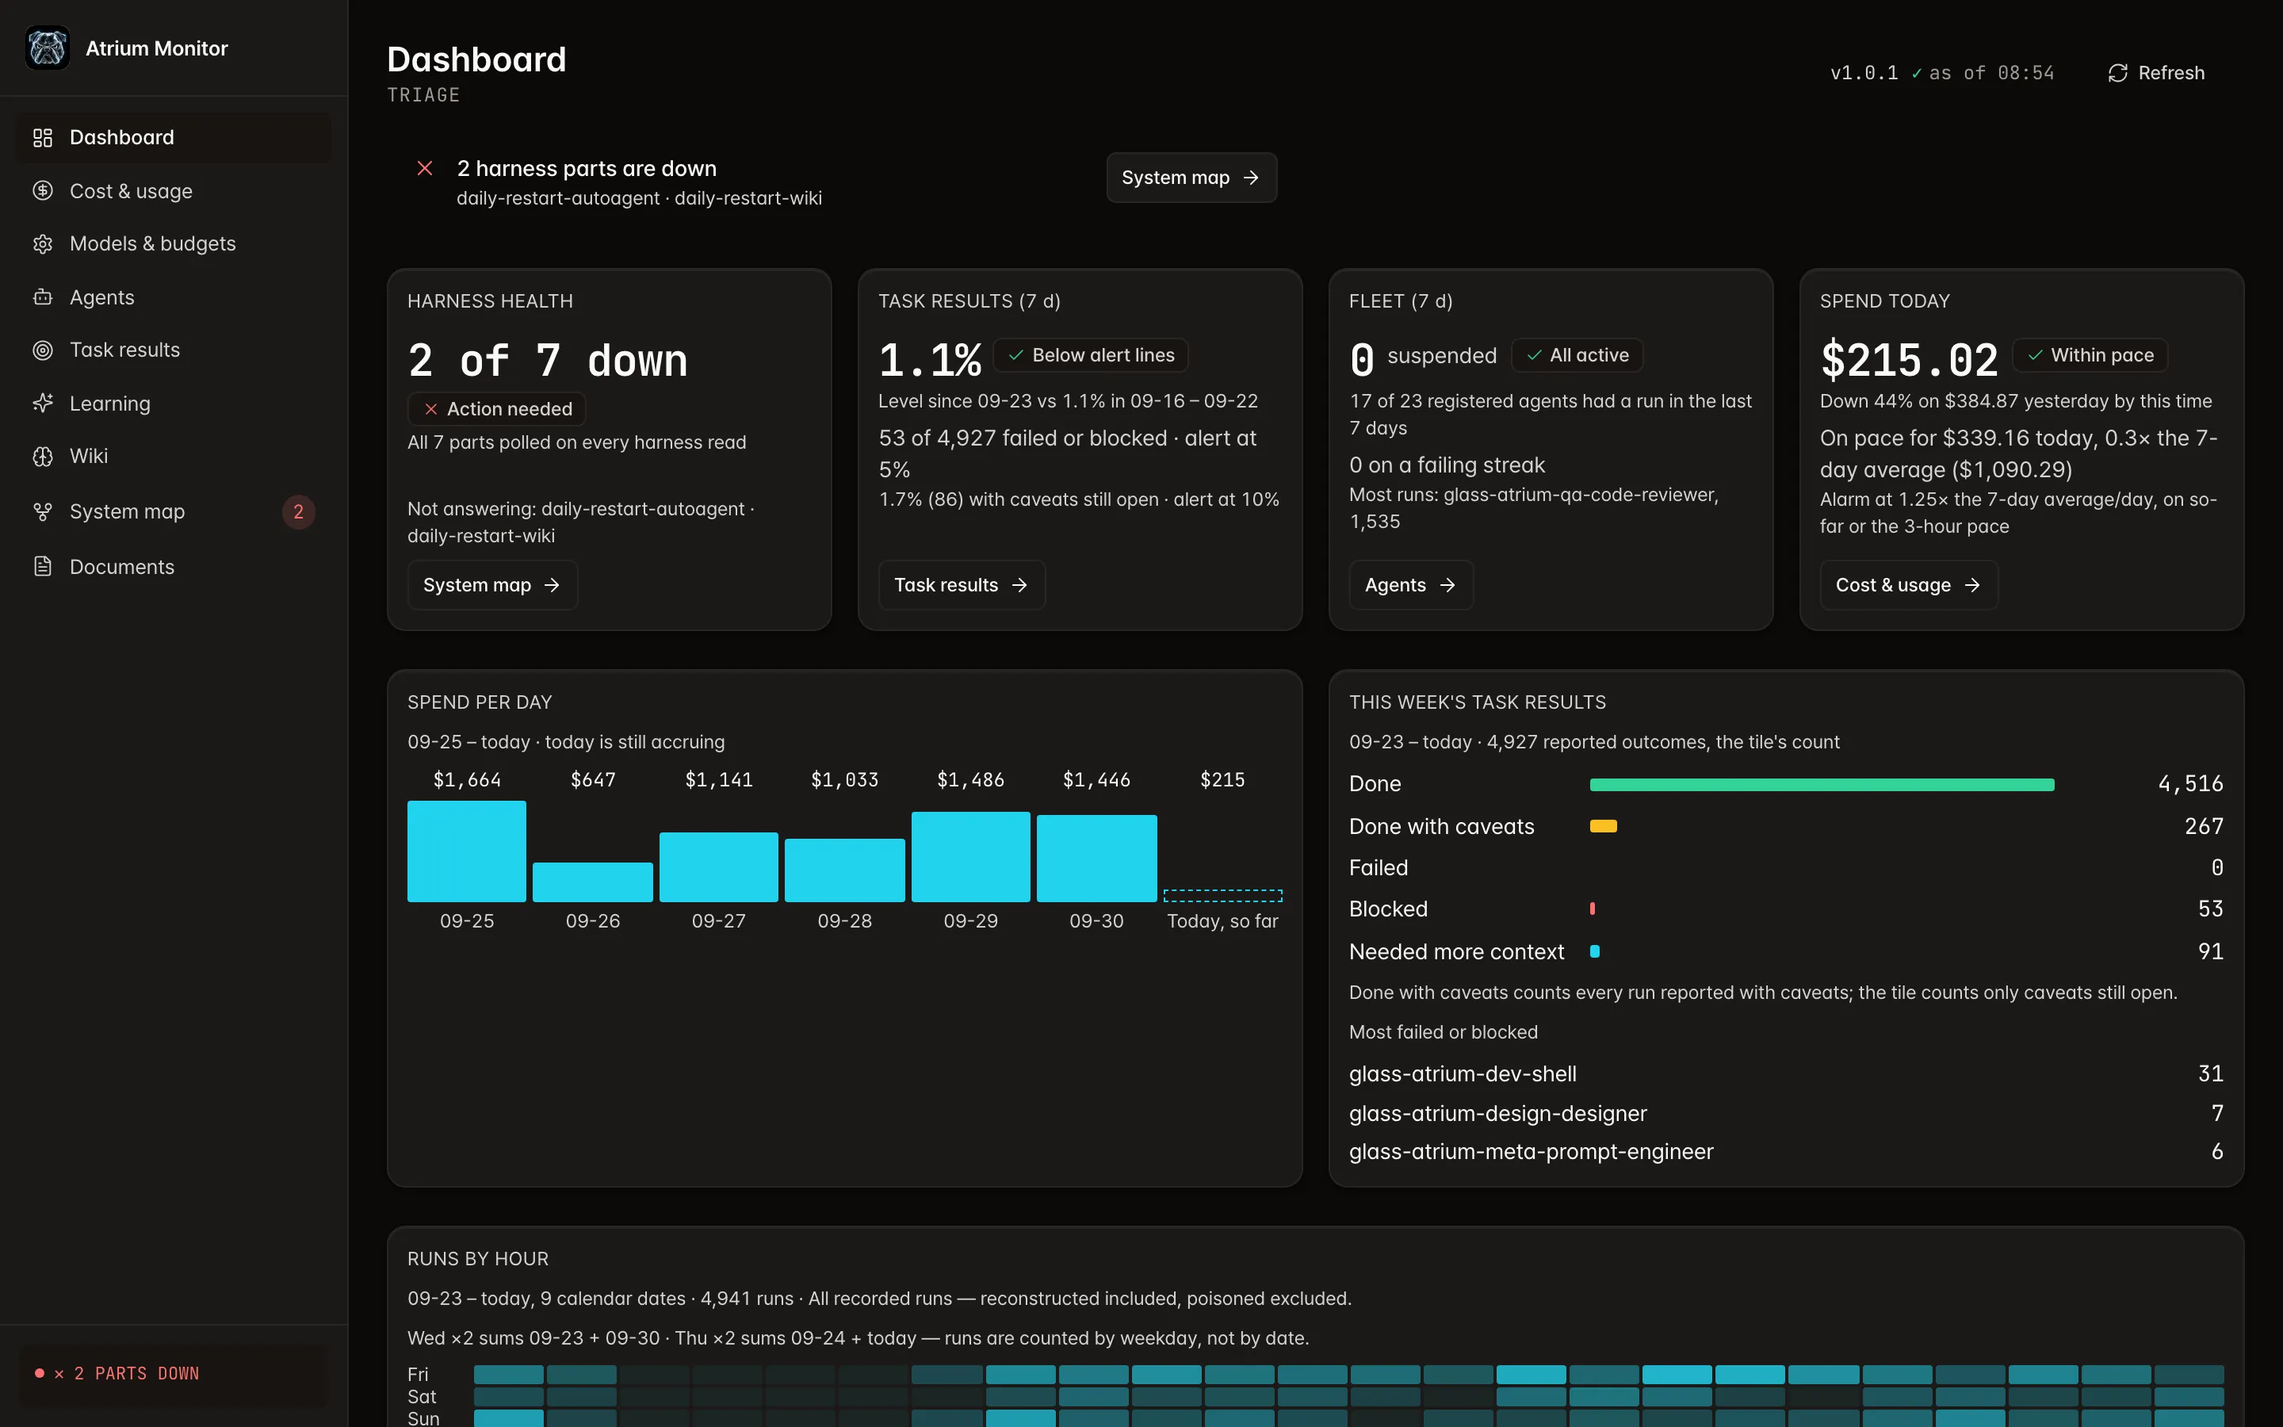
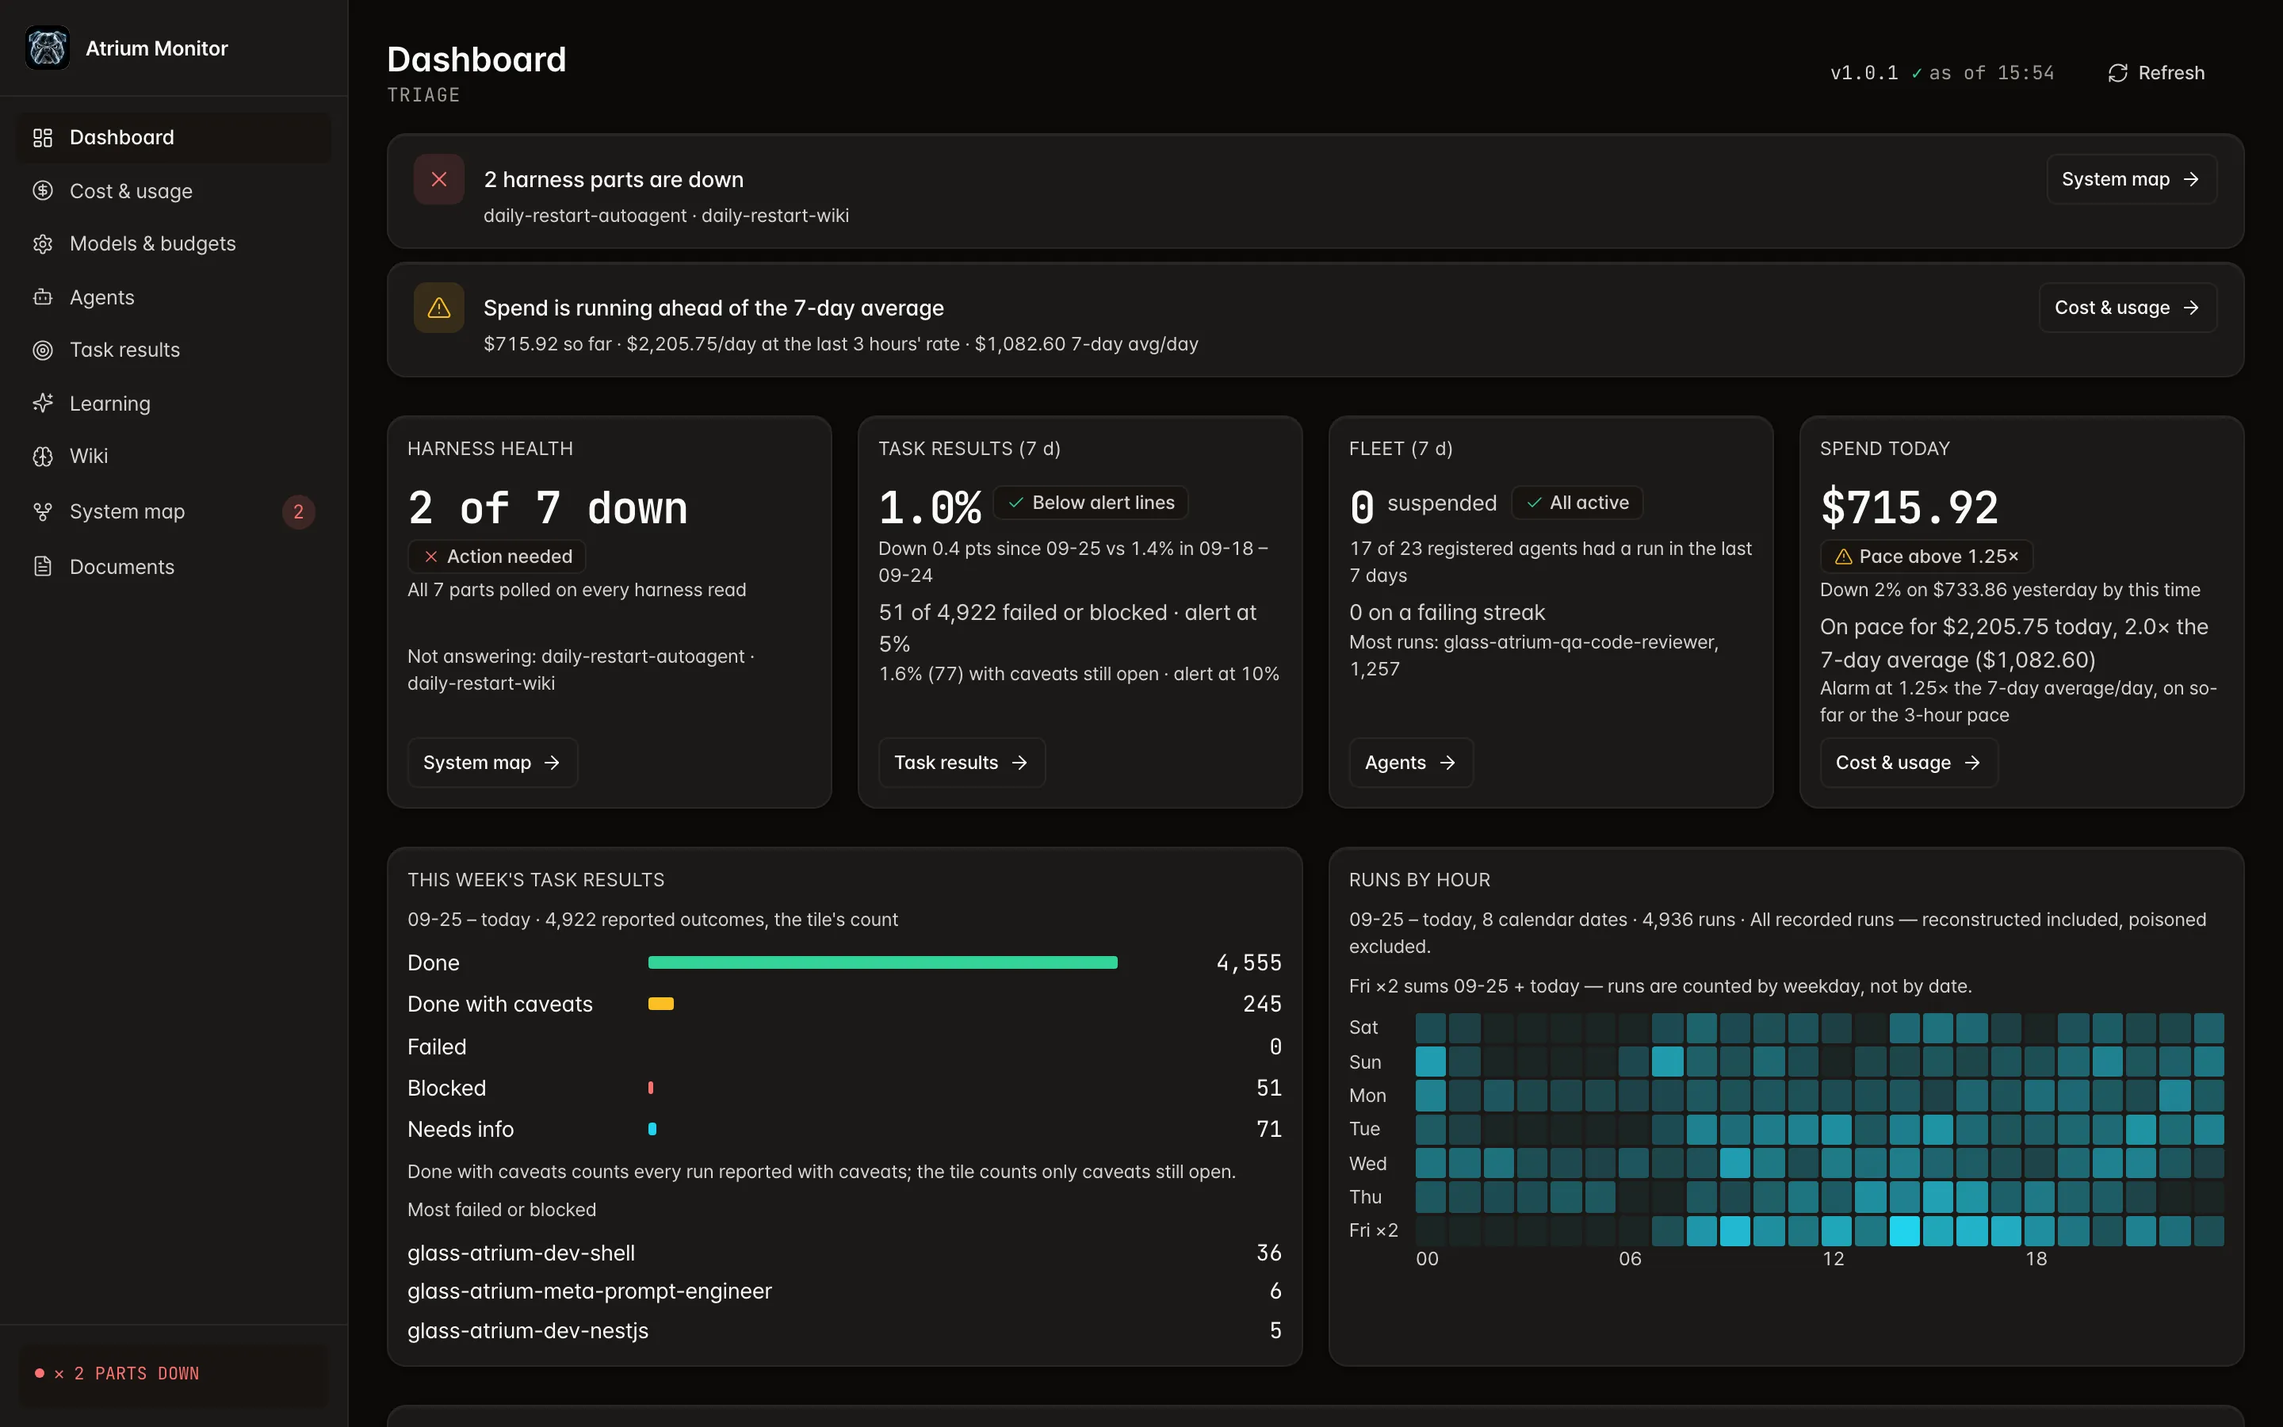
- [x] Refresh the README monitor screenshots and captions
- Rounds 8 and 9 changed the Dashboard alert cards, the Runs-by-hour panel and the System map layout, so the round-6 captures no longer matched the live UI.
- The en/ja/zh captions still described pre-round-6 content, and every alt/lead said "Cost & tokens" while the nav label is "Cost & usage".
- Captured as-is with two daily-restart daemons down; the Dashboard caption names stopped parts rather than claiming a healthy harness.

Coding-Agent: Claude Code
Model: claude-opus-5-5

diff --git a/README.ko.md b/README.ko.md
@@ -188,19 +188,19 @@ curl -fsSL https://github.com/bettep-dev/glass-atrium/raw/main/install.sh | bash
 ## 모니터 화면
 
 <p align="center"><img src="https://github.com/bettep-dev/glass-atrium/raw/main/docs/assets/screen-dashboard.webp" alt="대시보드" width="100%"></p>
-<p align="center"><em>대시보드 — 멈춘 하네스 부품을 맨 위에 알리고, 하네스 상태·7일 작업 결과·에이전트 현황·오늘 지출 타일과 일별 지출, 이번 주 작업 결과, 시간대별 실행 분포를 이어서 보여 줍니다.</em></p>
+<p align="center"><em>대시보드 — 멈춘 하네스 부품과 평소보다 빠른 지출을 맨 위에 알리고, 하네스 상태·7일 작업 결과·에이전트 현황·오늘 지출 타일과 이번 주 작업 결과, 시간대별 실행 분포를 이어서 보여 줍니다.</em></p>
 
-<p align="center"><img src="https://github.com/bettep-dev/glass-atrium/raw/main/docs/assets/screen-cost.webp" alt="비용·토큰" width="100%"></p>
-<p align="center"><em>비용·토큰 — 오늘 지출이 7일 평균 대비 정상 범위인지 먼저 알리고, 30일 비용·완료 작업당 비용·캐시 비중 KPI와 일별 비용 추이, 토큰 유형·모델별 비용, 비용이 큰 세션을 보여 줍니다.</em></p>
+<p align="center"><img src="https://github.com/bettep-dev/glass-atrium/raw/main/docs/assets/screen-cost.webp" alt="비용·사용량" width="100%"></p>
+<p align="center"><em>비용·사용량 — 오늘 지출이 7일 평균 대비 정상 범위인지 먼저 알리고, 오늘 대비 평소·30일 비용·완료 작업당 비용·캐시 비중 KPI와 일별 비용 추이, 토큰 유형·모델별 비용, 비용이 큰 세션을 보여 줍니다.</em></p>
 
 <p align="center"><img src="https://github.com/bettep-dev/glass-atrium/raw/main/docs/assets/screen-agents.webp" alt="에이전트" width="100%"></p>
-<p align="center"><em>에이전트 — 라우팅하면 안 되는 에이전트와 실패·도구 사용 한도 초과·컨텍스트 부족 건수를 먼저 보여 주고, 성공률이 낮은 에이전트·작업 조합과 완료 기록이 없는 실행을 표로 정리합니다.</em></p>
+<p align="center"><em>에이전트 — 라우팅하면 안 되는 에이전트와 실패·도구 사용 한도 초과·컨텍스트 부족 건수를 먼저 보여 주고, 성공률이 낮은 에이전트·작업 조합과 완료 기록이 없는 실행을 에이전트별 P95와 함께 표로 정리합니다.</em></p>
 
 <p align="center"><img src="https://github.com/bettep-dev/glass-atrium/raw/main/docs/assets/screen-learning.webp" alt="학습" width="100%"></p>
-<p align="center"><em>학습 — 자가개선 루프의 승인 대기·최근 적용·제안 가능 백로그·사람 판단이 필요한 보류 패턴 수를 보여 주고, 제안 보드에서 적용 이력과 원인별 거부 이력을 나눠 표시합니다.</em></p>
+<p align="center"><em>학습 — 자가개선 루프의 승인 대기·최근 적용·제안 가능 백로그·사람 판단이 필요한 보류 패턴 수와 계측 상태를 보여 주고, 제안 보드에서 적용 이력과 원인별 거부 이력을 나눠 표시합니다.</em></p>
 
 <p align="center"><img src="https://github.com/bettep-dev/glass-atrium/raw/main/docs/assets/screen-system-map.webp" alt="System map" width="100%"></p>
-<p align="center"><em>System map — 하네스 구성 다이어그램에 부품별 상태 링을 겹쳐 주의가 필요한 곳을 표시하고, 아래 부품 상태 목록에서 각 부품의 상태와 마지막 실행 시각을 보여 줍니다.</em></p>
+<p align="center"><em>System map — 주의가 필요한 부품을 맨 위에 짚고, 데몬·오케스트레이터·에이전트에서 안전 검사·저장소·문서로 이어지는 구성도에 부품별 상태 링을 겹친 뒤, 아래 부품 상태 목록에서 각 부품의 상태를 보여 줍니다.</em></p>
 
 ## 라이선스
 

diff --git a/README.ja.md b/README.ja.md
@@ -180,19 +180,19 @@ curl -fsSL https://github.com/bettep-dev/glass-atrium/raw/main/install.sh | bash
 ## モニター画面
 
 <p align="center"><img src="https://github.com/bettep-dev/glass-atrium/raw/main/docs/assets/screen-dashboard.webp" alt="ダッシュボード" width="100%"></p>
-<p align="center"><em>ダッシュボード概要 — 今日のコスト、直近 30 日の支出、トークン使用推移、セッション・失敗カウンターを一目で見渡せます。</em></p>
+<p align="center"><em>ダッシュボード — 停止したハーネス部品と平常を上回る支出を最上部で知らせ、ハーネス状態・7 日間のタスク結果・エージェント状況・今日の支出のタイルに続けて、今週のタスク結果と時間帯別の実行分布を表示します。</em></p>
 
-<p align="center"><img src="https://github.com/bettep-dev/glass-atrium/raw/main/docs/assets/screen-cost.webp" alt="コスト・トークン" width="100%"></p>
-<p align="center"><em>コスト・トークン — コスト KPI に、30 日の日別コスト推移(スパイクマーカー)とバーンレート予測を添えて示します。</em></p>
+<p align="center"><img src="https://github.com/bettep-dev/glass-atrium/raw/main/docs/assets/screen-cost.webp" alt="コスト・使用量" width="100%"></p>
+<p align="center"><em>コスト・使用量 — 今日の支出が 7 日平均に対して平常範囲内かをまず知らせ、今日と平常の比較・30 日コスト・完了タスクあたりコスト・キャッシュ比率の KPI、日別コスト推移、トークン種別・モデル別コスト、コストの大きいセッションを表示します。</em></p>
 
 <p align="center"><img src="https://github.com/bettep-dev/glass-atrium/raw/main/docs/assets/screen-agents.webp" alt="エージェント" width="100%"></p>
-<p align="center"><em>エージェント — エージェント別の実行数、成功率、P95、トレンドのスパークラインを表示します。</em></p>
+<p align="center"><em>エージェント — ルーティングしてはいけないエージェントと、失敗・ツール使用上限超過・コンテキスト不足の件数をまず示し、成功率の低いエージェント・タスクの組み合わせと完了記録のない実行を、エージェント別 P95 とあわせて表にまとめます。</em></p>
 
 <p align="center"><img src="https://github.com/bettep-dev/glass-atrium/raw/main/docs/assets/screen-learning.webp" alt="学習" width="100%"></p>
-<p align="center"><em>学習 — 自己改善提案ボード(待機/適用/却下)と、信頼度、事前検査の結果を表示します。</em></p>
+<p align="center"><em>学習 — 自己改善ループの承認待ち・最近の適用・提案可能なバックログ・人の判断が必要な保留パターンの数と計測状態を示し、提案ボードで適用履歴と原因別の却下履歴を分けて表示します。</em></p>
 
 <p align="center"><img src="https://github.com/bettep-dev/glass-atrium/raw/main/docs/assets/screen-system-map.webp" alt="System map" width="100%"></p>
-<p align="center"><em>System map — 維持される Mermaid アーキテクチャダイアグラムに、ライブ状態のオーバーレイを重ねました。</em></p>
+<p align="center"><em>System map — 注意が必要な部品を最上部で示し、デーモン・オーケストレーター・エージェントから安全チェック・ストア・ドキュメントへ続く構成図に部品ごとの状態リングを重ね、下の部品状態リストで各部品の状態を表示します。</em></p>
 
 ## ライセンス
 

diff --git a/README.md b/README.md
@@ -180,19 +180,19 @@ The body (the system prompt) is authored by **glass-atrium-meta-prompt-engineer*
 ## Monitor screens
 
 <p align="center"><img src="https://github.com/bettep-dev/glass-atrium/raw/main/docs/assets/screen-dashboard.webp" alt="Dashboard" width="100%"></p>
-<p align="center"><em>Dashboard overview — today's cost, the last 30 days of spend, the token-usage trend, and the session and failure counters at a glance.</em></p>
+<p align="center"><em>Dashboard — flags stopped harness parts and spend running ahead of normal at the top, then shows tiles for harness health, 7-day task results, the agent fleet and today's spend, followed by this week's task results and runs by hour.</em></p>
 
-<p align="center"><img src="https://github.com/bettep-dev/glass-atrium/raw/main/docs/assets/screen-cost.webp" alt="Cost & tokens" width="100%"></p>
-<p align="center"><em>Cost & tokens — cost KPIs, the 30-day daily cost trend (with spike markers), and a burn-rate forecast.</em></p>
+<p align="center"><img src="https://github.com/bettep-dev/glass-atrium/raw/main/docs/assets/screen-cost.webp" alt="Cost & usage" width="100%"></p>
+<p align="center"><em>Cost & usage — first says whether today's spend is within the normal range of the 7-day average, then shows KPIs for today vs. normal, 30-day cost, cost per finished task and cache share, the daily cost trend, cost by token type and model, and the most expensive sessions.</em></p>
 
 <p align="center"><img src="https://github.com/bettep-dev/glass-atrium/raw/main/docs/assets/screen-agents.webp" alt="Agents" width="100%"></p>
-<p align="center"><em>Agents — per-agent run counts, success rates, P95, and trend sparklines.</em></p>
+<p align="center"><em>Agents — leads with the agents unsafe to route to and the failed, over-tool-use-cap and needs-context counts, then tables the agent-task pairs with low success rates and the runs with no completion record, with per-agent P95.</em></p>
 
 <p align="center"><img src="https://github.com/bettep-dev/glass-atrium/raw/main/docs/assets/screen-learning.webp" alt="Learning" width="100%"></p>
-<p align="center"><em>Learning — the self-improvement proposal board (pending/applied/rejected) with confidence and pre-verification results.</em></p>
+<p align="center"><em>Learning — shows the self-improvement loop's awaiting-approval, recently applied, proposable-backlog and human-held pattern counts plus instrumentation status, and splits the suggestion board into applied history and rejections by cause.</em></p>
 
 <p align="center"><img src="https://github.com/bettep-dev/glass-atrium/raw/main/docs/assets/screen-system-map.webp" alt="System map" width="100%"></p>
-<p align="center"><em>System map — the maintained Mermaid architecture diagrams with a live-status overlay.</em></p>
+<p align="center"><em>System map — calls out the parts that need attention at the top, overlays per-part status rings on a diagram running from the daemons, orchestrator and agents to the safety checks, store and documents, and lists each part's state in the part-health list below.</em></p>
 
 ## License
 

diff --git a/README.zh.md b/README.zh.md
@@ -180,19 +180,19 @@ curl -fsSL https://github.com/bettep-dev/glass-atrium/raw/main/install.sh | bash
 ## 监控界面
 
 <p align="center"><img src="https://github.com/bettep-dev/glass-atrium/raw/main/docs/assets/screen-dashboard.webp" alt="仪表盘" width="100%"></p>
-<p align="center"><em>仪表盘概览 — 一目了然地展示今日成本、最近 30 天支出、token 使用趋势，以及会话/失败计数器。</em></p>
+<p align="center"><em>仪表盘 — 在顶部提示已停止的 harness 部件和高于常态的支出，随后展示 harness 状态、7 天任务结果、智能体概况、今日支出卡片，以及本周任务结果和按时段的运行分布。</em></p>
 
-<p align="center"><img src="https://github.com/bettep-dev/glass-atrium/raw/main/docs/assets/screen-cost.webp" alt="成本·token" width="100%"></p>
-<p align="center"><em>成本·token — 提供成本 KPI、30 天每日成本趋势（含尖峰标记），以及消耗速率（burn rate）预测。</em></p>
+<p align="center"><img src="https://github.com/bettep-dev/glass-atrium/raw/main/docs/assets/screen-cost.webp" alt="成本·用量" width="100%"></p>
+<p align="center"><em>成本·用量 — 先提示今日支出相对 7 天平均是否处于正常范围，再展示今日对比常态、30 天成本、每个完成任务的成本、缓存占比等 KPI，以及每日成本趋势、按 token 类型和模型的成本、成本最高的会话。</em></p>
 
 <p align="center"><img src="https://github.com/bettep-dev/glass-atrium/raw/main/docs/assets/screen-agents.webp" alt="智能体" width="100%"></p>
-<p align="center"><em>智能体 — 展示各智能体的执行次数、成功率、P95，以及趋势迷你图（sparkline）。</em></p>
+<p align="center"><em>智能体 — 先展示不应路由的智能体，以及失败、超出工具调用上限、上下文不足的数量，再用表格列出成功率偏低的智能体·任务组合和没有完成记录的运行，并附各智能体的 P95。</em></p>
 
 <p align="center"><img src="https://github.com/bettep-dev/glass-atrium/raw/main/docs/assets/screen-learning.webp" alt="学习" width="100%"></p>
-<p align="center"><em>学习 — 展示自我改进提案看板（待处理/已应用/已拒绝），以及置信度与预检结果。</em></p>
+<p align="center"><em>学习 — 展示自我改进循环的待审批、最近应用、可提出建议的积压、需人工判断的搁置模式数量及埋点状态，并在建议看板中分别显示应用历史和按原因分类的拒绝历史。</em></p>
 
 <p align="center"><img src="https://github.com/bettep-dev/glass-atrium/raw/main/docs/assets/screen-system-map.webp" alt="System map" width="100%"></p>
-<p align="center"><em>System map — 在维护中的 Mermaid 架构图上叠加了实时状态。</em></p>
+<p align="center"><em>System map — 在顶部指出需要关注的部件，在从守护进程经编排器、智能体到安全检查、存储和文档的架构图上叠加各部件的状态环，并在下方的部件状态列表中显示各部件的状态。</em></p>
 
 ## 许可证
 
